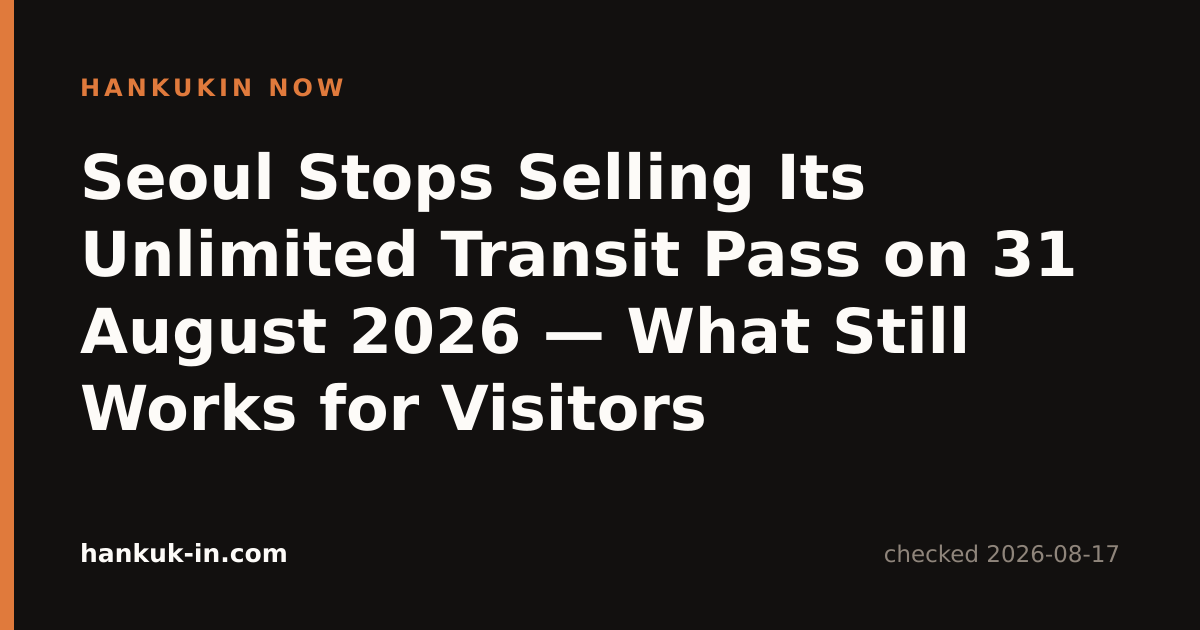
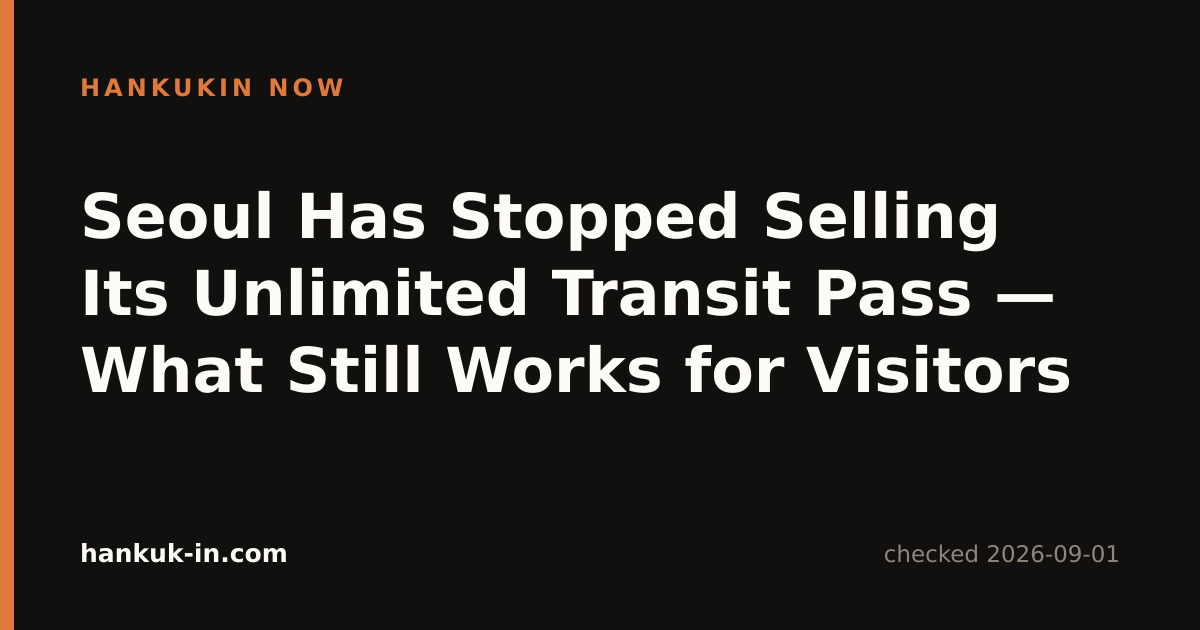
auto(content): 10 files - verified

Changed region(s): [[0.0617, 0.2413, 0.8942, 0.6937], [0.8942, 0.8746, 0.925, 0.9048]]

diff --git a/_커밋메시지-2026-09-01.md b/_커밋메시지-2026-09-01.md
@@ -1,0 +1,117 @@
+# 커밋 메시지 — 2026-09-01 (화요일 실행분)
+
+fix(now): 9월 1일 시행분 두 편 재확인 — KTX·SRT 통합 개시, 기후동행카드 30일권 충전 종료
+
+VERIFIED - astro build 통과 (137 pages)
+
+## 새 글을 쓰지 않고 재확인을 했다
+
+`_기사목록과-계획표-2026-08-20.md` C그룹에 **「9월 1일 이후」로 날짜가 박힌 항목이 둘** 있었다.
+오늘이 그날이다. 축을 세어 보면 최미달은 scenes(−4.3)·decode(−4.2)지만,
+**「낡은 요금은 새 글보다 해롭다」**를 그대로 적용했다. 두 기사 모두 어제까지는
+「9월 1일부터 이렇게 된다」는 미래형이었고, 오늘 아침부터는 그 문장이 전부 틀린 시제다.
+
+축 균형은 내일 이후로 미룬다. 오늘 안 고치면 오늘 읽는 사람이 손해를 본다.
+
+## ① Seoul to Busan KTX — 통합이 실제로 시행됐는지부터 확인했다
+
+**확인한 것 (오늘 1차 출처를 직접 열었다)**
+
+- 국토교통부·코레일 공동 보도자료 (2026-08-31, nttNo=27228) —
+  「통합에 필요한 절차를 모두 완료해 9월 1일 기관통합·통합운행 본격 시작」
+  → `<Original>` 로 원문 병기. **예고가 미뤄지지 않았다는 것이 오늘의 핵심 사실이다.**
+- 같은 자료에서 새 수치 하나: **수서축 좌석 약 30% 확대.** 좌석 절에 넣었다.
+- 추석 예매 보도자료 (2026-08-14, nttNo=27180) 를 **오늘 다시 열어** 일정이 안 바뀐 것을 확인.
+  사전예매 9/3–4, 일반예매 9/7–11, 경부선 KTX는 9/11, 결제 9/12 0시부터, 일반 9/15·사전 9/18 마감.
+  **이틀 뒤에 시작되는 일정이라 이번 재확인의 실질적 이유가 여기 있었다.** 전부 그대로였다.
+
+**확인하지 못한 것 (기사에 그대로 적었다)**
+
+- **54,400원을 예매 화면에서 직접 읽지 못했다.** 예매 시스템은 봇 탐지로 막힌다.
+  8/31 자료는 「KTX 운임 평균 10% 인하」만 재확인하고 노선별 금액은 다시 적지 않는다.
+  → 기사에 **「인하 시행은 날짜 있는 1차 출처로 확인, 54,400원은 코레일이 사전에 공표한 그 금액」**
+  이라고 나누어 썼다. 확인한 것과 못 한 것을 한 문장 안에서 섞지 않았다.
+- 수서~부산 운임, 소요시간·시각표 — 종전과 같이 쓰지 않았다.
+
+**시제 정리**: 제목 `Fares Drop 1 September` → `Fares Dropped, SRT Now KTX-Sancheon`,
+운임표 열머리 `From 1 Sep 2026` → `Now`, 「8월 중에는 앱이 나뉘어 있다」 절을 과거형으로.
+checkedAt·faresCheckedAt 2026-09-01.
+
+**같은 말을 두 번 하려다 잡았다.** 수서 30% 를 확인 절과 좌석 절 양쪽에 썼다가
+확인 절에서 뺐다. (렌더 후 실제로 세어 봤다 — 수서 30% 언급 1회, 나머지 30% 는 할인표.)
+
+## ② 기후동행카드 — 30일권 충전이 어제로 끝났다
+
+**확인한 것**
+
+- 운영종료 FAQ (오늘 재확인) Q3 표: `26.9.1.~ 선불 30일권 충전 중단` / 9.29 선불 최종 /
+  9.30 후불 최종 / 10.1 운영 종료. **기사에 적혀 있던 날짜가 전부 맞았다.**
+- **Q26 — 선불 카드 신규 발급(구매)은 언제든 가능.** 멈춘 것은 30일권 충전뿐이다.
+  단기권이 유지되므로 카드 자체도 유지된다는 뜻. 여행자에게 직접 쓸모가 있어 새로 넣었다.
+- **Q16 — 기후동행패스 혜택은 서울시민에게만.** 이게 오늘 가장 값진 수확이다.
+  기사에는 「단기 체류자가 가입할 수 있는지 확인 못 했다」고 적혀 있었는데,
+  서울시가 **경기도 주민조차 대상이 아니라고** 명시한 문장을 찾았다.
+  → 「대체품은 주민용 상품이고 여행자의 답은 여전히 단기권」으로 결론을 굳혔다. `<Original>` 병기.
+- 서울시-대광위 보도자료 (2026-07-30): 모두의카드(기후동행패스) 9월 1일 출시, 청년 연령 만 39세로 확대.
+- 30일권 이용 종료 안내 페이지 (517575, 8/31 개정) — 새 출처로 등재.
+
+**우리만 집은 것 — 서울시 페이지 안에서 날짜가 어긋난다**
+
+517575 페이지는 본문 위에 **AI가 쓴 요약 상자**를 달아 두었는데,
+거기 적힌 선불 충전 마감이 **7월 31일**, 후불이 **8월 31일**이다.
+같은 페이지 본문은 8월 31일·9월 30일이고, FAQ 표도 본문 쪽과 일치한다.
+서울시 스스로 그 상자를 「기계가 생성했고 부정확할 수 있다」고 고지해 두었다.
+→ **어느 쪽을 따랐는지 밝히고 「상자 너머까지 읽으라」고 안내했다.**
+관광객이 그 페이지를 직접 열면 정확히 여기서 한 달을 잘못 안다.
+
+**확인하지 못한 것**: K-패스 사이트는 오늘도 우리 쪽에서 열리지 않았다.
+가입 절차는 여전히 쓰지 않았다. 「서울시가 서울시민 한정이라 적었다」까지만 썼다.
+
+## ③ 번역본 둘도 같이 고쳤다 — 그리고 링크 사고 하나를 잡았다
+
+ja·zh-hans 모두 영어 원문과 같은 자리를 고쳤다.
+`sourceCheckedAt`·`factsVerifiedAt` 2026-09-01 (오늘 1차 출처를 다시 열었으므로 정당하다).
+
+**그리고 두 번역본에 같은 오배선이 있었다.**
+
+```
+라벨   「地下鉄・バス・タクシーの実額」 /「地铁、公交、出租车的实际花费」
+주소   /ja|zh-hans/now/incheon-airport-to-seoul-train-bus-taxi/   ← 공항편이다
+```
+
+두 언어판 모두 `seoul-transport-fares-subway-bus-taxi` 가 실제로 존재하는데도 공항편을 가리키고 있었다.
+같은 문단 뒤쪽에 공항편 링크가 따로 또 있어서 **한 문단에 같은 주소가 두 번** 들어가 있었다.
+영어 원문은 처음부터 맞게 걸려 있었다 — **영어만 보고 있으면 안 보이는 종류의 사고다.**
+둘 다 요금편으로 고쳤다.
+
+## 함께 바꾼 것
+
+- `public/og/` 카드 4장 재생성 (제목이 바뀌었으므로). 복사본에서 `make-og` 로 그린 뒤 손으로 옮겼다.
+  **4장을 세로로 붙여 실제로 눈으로 봤다** — 잘림·겹침 없음, 넉 장 다 `checked 2026-09-01` 표시.
+- 출처 3건 신규 등재(영·일·중 각각), 기존 출처의 checkedAt 갱신.
+- 영어판 기후동행카드 편에 `What this article does not claim` 절 신설(종전에 없었다). 3문장.
+
+## 검증
+
+- `$HOME/hkb` 복사본에서 `npm ci` → `astro build` **137 pages 통과**
+  - no-shared-images · no-duplicate-files · photo-sanity · content-quality **넷 다 초록**
+  - content-quality: 「노출된 마크다운 기호 없음」 — CJK `**` 사고 없음
+- `check-i18n` 통과 (137쪽, canonical·hreflang·제휴추적·sponsored)
+- `link-check --offline` 통과. 경고 2건은 기존 성수동 편 지도 경유지 건으로 이번 작업과 무관.
+- 렌더된 HTML 4쪽에서 잔여 `**` 를 직접 세었다 — 전부 0.
+- **실제 폴더에서는 npm·npx·git 을 실행하지 않았다** (⑥-A·⑦ 준수).
+
+## 사진·제휴
+
+사진은 건드리지 않았다(두 기사 모두 원래 대표사진 없음, HERO_EXEMPT 유지).
+제휴 링크도 손대지 않았다 — 재확인 작업이지 새 판매 지점을 만드는 작업이 아니다.
+
+## 다음에 날짜가 걸린 것
+
+```
+9월 12일 이후   KTX 편 추석 절 — 그날이면 예매·결제가 전부 지난 이야기가 된다. 과거형으로 고쳐야 한다
+9월 29·30일    기후동행카드 선불·후불 최종 이용일
+10월  1일      30일권 완전 폐지 — 기후동행카드 편을 「끝났다」 기준으로 다시 쓴다
+```
+
+`_기사목록과-계획표-2026-08-20.md` C그룹의 9월 1일 두 항목은 오늘로 처리됐다.
